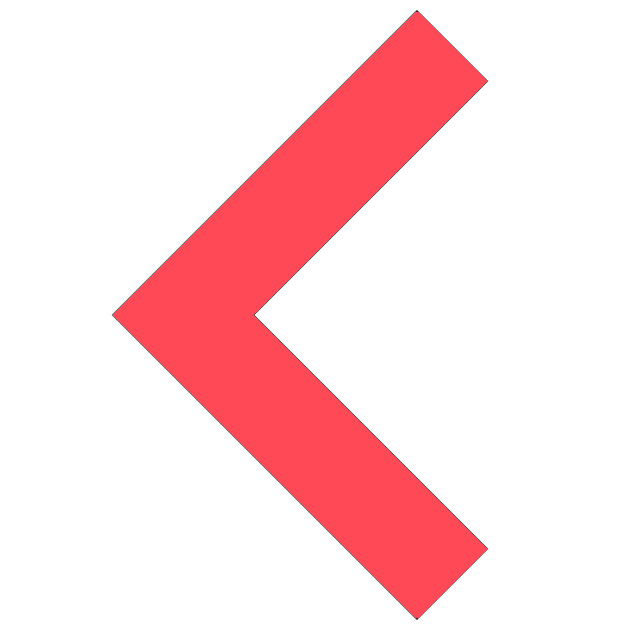
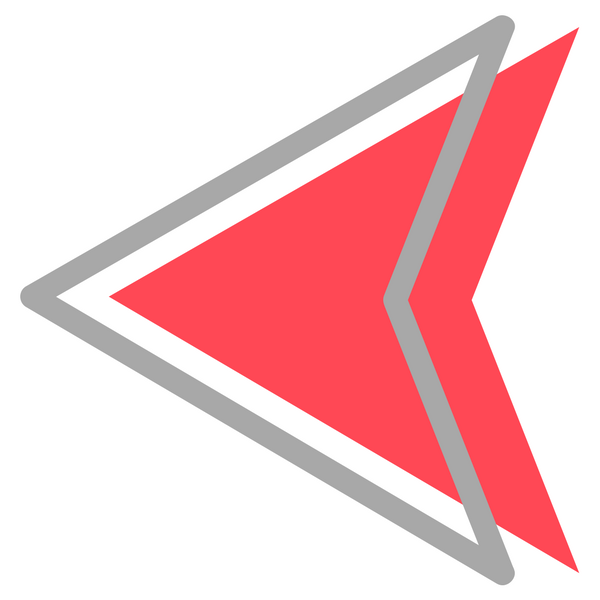
Version 1.3.12 - New Images and Visuals

diff --git a/profile/profilesprite.php b/profile/profilesprite.php
@@ -1,0 +1,98 @@
+<?php
+
+include "imageGenerator.php";
+
+session_start();
+
+if(isset($_SESSION['id']))
+{
+	$id = $_SESSION['id']; // Picks up the id of the user that is logged in
+}
+
+try
+{
+	$db = new PDO('mysql:host=localhost; dbname=USERS', 'root', 'root');
+	$db->setAttribute(PDO::ATTR_ERRMODE, PDO::ERRMODE_EXCEPTION);
+	//echo "Connected to the database!";
+}
+catch(PDOException $ex)
+{
+   	 //display error message
+    	echo "Connection failed ".$ex->getMessage();
+}
+
+$sqlQuery = "SELECT * FROM scholarinfo WHERE id = :id";
+$statement = $db->prepare($sqlQuery);
+$statement->execute(array(':id' => $id));
+
+while($rs = $statement->fetch())
+{
+	$sex = $rs['scholar_sex'];
+	$skincolor = $rs['scholar_skincolor'];
+	$hairstyle = $rs['scholar_hairstyle'];
+	$haircolor = $rs['scholar_haircolor'];
+	$eyecolor = $rs['scholar_eyecolor'];
+	$shirt = $rs['shirt_id'];
+	$pants = $rs['pants_id'];
+	$shoes = $rs['shoes_id'];
+}
+
+$skin_rgb = getSkinColor($skincolor);
+$hair_rgb = getHairColor($haircolor);
+$eye_rgb = getEyeColor($eyecolor);
+$hair_number = getHairStyle($sex, $hairstyle, false);
+$genericVariables = getGenericVariables($sex, false);
+// GET PANTS
+// GET SHOES
+// etc. (must be simplified to the lowest level)
+
+header('Content-Type: image/png');
+
+$destination = imagecreatefrompng($genericVariables[0]);//body type
+$source1 = imagecreatefrompng($genericVariables[1]);//face image
+$source2 = imagecreatefrompng($genericVariables[2]);//eye image
+$source3 = imagecreatefrompng($genericVariables[3]);//lips image
+$source4 = imagecreatefrompng($hair_number);//hair style
+$source5 = imagecreatefrompng($genericVariables[4]);//uniform
+$source6 = imagecreatefrompng($genericVariables[5]);//shoes
+
+imagealphablending($source1, true);
+imagesavealpha($source1, true);
+
+imagealphablending($destination, true);
+imagesavealpha($destination, true);
+
+$largeur_source = imagesx($source1);
+$hauteur_source = imagesy($source1);
+
+$largeur_source2 = imagesx($source2);
+$hauteur_source2 = imagesy($source2);
+
+$largeur_source3 = imagesx($source3);
+$hauteur_source3 = imagesy($source3);
+
+$largeur_source4 = imagesx($source4);
+$hauteur_source4 = imagesy($source4);
+
+$largeur_source5 = imagesx($source5);
+$hauteur_source5 = imagesy($source5);
+
+$largeur_source6 = imagesx($source6);
+$hauteur_source6 = imagesy($source6);
+
+imagefilter($source2, IMG_FILTER_COLORIZE, $eye_rgb[0], $eye_rgb[1], $eye_rgb[2], $eye_rgb[3]); //Eye color
+imagefilter($source3, IMG_FILTER_COLORIZE, $skin_rgb[0], $skin_rgb[1], $skin_rgb[2], $skin_rgb[3]); //Lip color = skin color
+imagefilter($source4, IMG_FILTER_COLORIZE, $hair_rgb[0], $hair_rgb[1], $hair_rgb[2], $hair_rgb[3]); //Hair color
+imagefilter($destination, IMG_FILTER_COLORIZE, $skin_rgb[0], $skin_rgb[1], $skin_rgb[2], $skin_rgb[3]);//Skin color
+
+
+imagecopy($destination, $source1, 0, 0, 0, 0, $largeur_source, $hauteur_source);
+imagecopy($destination, $source2, 0, 0, 0, 0, $largeur_source2, $hauteur_source2);
+imagecopy($destination, $source3, 0, 0, 0, 0, $largeur_source3, $hauteur_source3);
+imagecopy($destination, $source4, 0, 0, 0, 0, $largeur_source4, $hauteur_source4);
+imagecopy($destination, $source5, 0, 0, 0, 0, $largeur_source5, $hauteur_source5);
+imagecopy($destination, $source6, 0, 0, 0, 0, $largeur_source6, $hauteur_source6);
+
+imagepng($destination);	
+
+?>

diff --git a/illustrations/illus_generator.php b/illustrations/illus_generator.php
@@ -1,0 +1,35 @@
+<?php
+
+session_start();
+
+if(isset($_SESSION['id']))
+{
+	$id = $_SESSION['id']; // Picks up the id of the user that is logged in
+}
+
+try
+{
+	$db = new PDO('mysql:host=localhost; dbname=USERS', 'root', 'root');
+	$db->setAttribute(PDO::ATTR_ERRMODE, PDO::ERRMODE_EXCEPTION);
+	//echo "Connected to the database!";
+}
+catch(PDOException $ex)
+{
+   	 //display error message
+    	echo "Connection failed ".$ex->getMessage();
+}
+
+$sqlQuery = "SELECT * FROM scholarinfo WHERE id = :id";
+$statement = $db->prepare($sqlQuery);
+$statement->execute(array(':id' => $id));
+
+while($rs = $statement->fetch())
+{
+	$sex = $rs['scholar_sex'];
+	$skincolor = $rs['scholar_skincolor'];
+	$hairstyle = $rs['scholar_hairstyle'];
+	$haircolor = $rs['scholar_haircolor'];
+	$eyecolor = $rs['scholar_eyecolor'];
+}
+
+

diff --git a/CHANGELOG.md b/CHANGELOG.md
@@ -1,5 +1,12 @@
 #CHANGELOG
 
+Version 1.3.12 (JUNE - New Images & visuals)
+- *NEW CHEVRONS*        [index.php]         Prettier and cooler chevrons for the scholar randomizer
+- *NEW VISUAL*          [index.php]         dashboard.png
+- *NEW VISUAL*          [index.php]         Vertical_divider.png
+- *NEW SPRITE IMAGES*   [profile.php]       New sprites with cute decorations for the profile page
+- *ILLUSTRATION*        [illus_generator.php]       Started the illustration generator
+
 Version 1.3.11 (Minor Design Upgrades)
 - *DORM*                [dorm.php]          fixed the goddamn m_shoes.png issue
 - *DESIGN*              [about.php]         minor design changes
